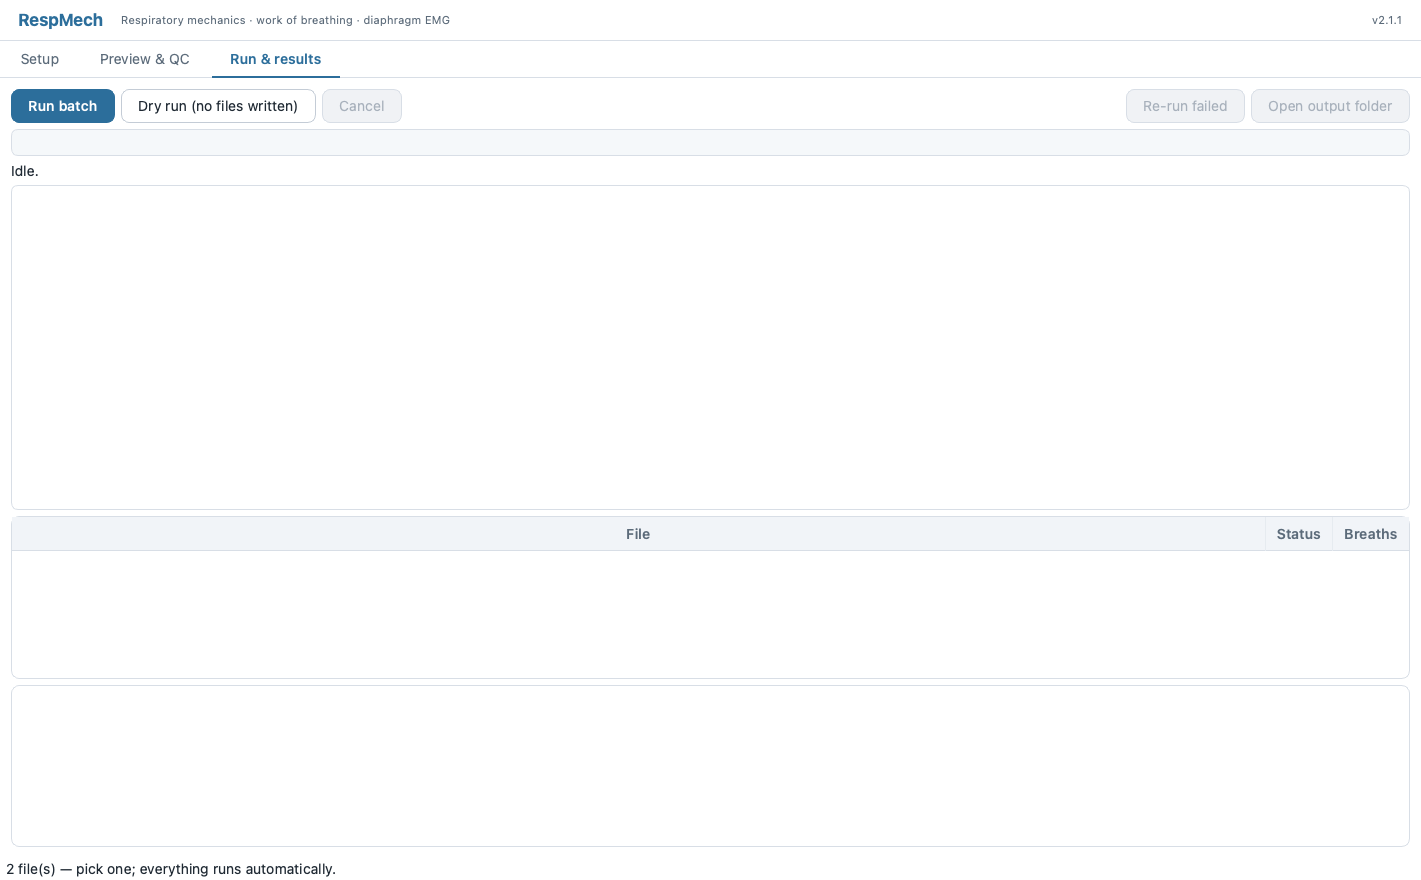
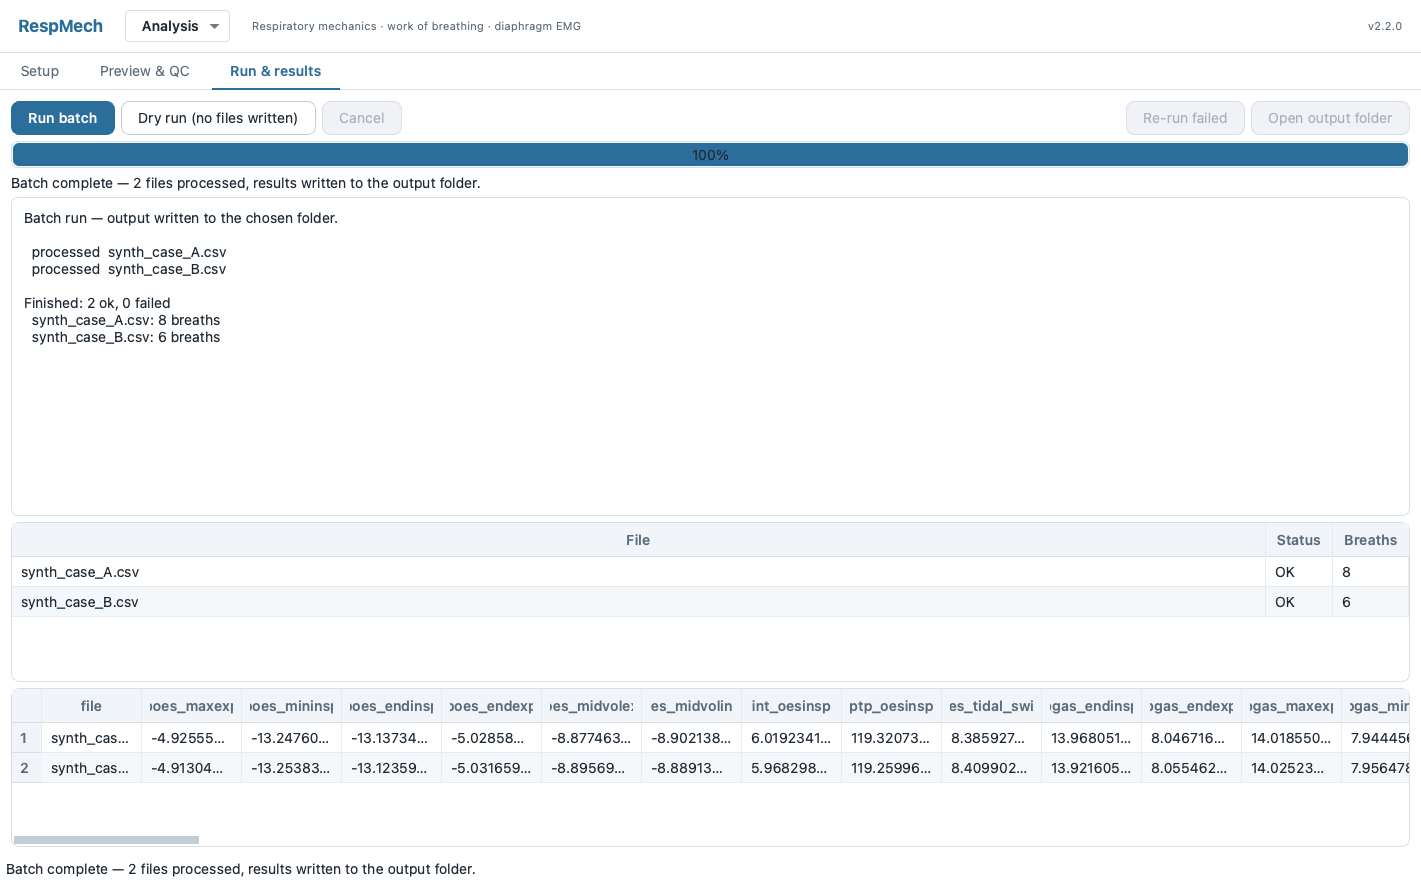
docs: refresh README screenshots + text for the 2.2 UI
Regenerate the three screenshots against the current UI (same synthetic demo
data, so the only change is the interface): the header now carries the Analysis
menu (Open/Save/Save as/recent files) in place of the old per-tab action bar and
Validate button; the Setup fields are capped to tidy columns; the Preview file
strip sizes to content; and the Preview/Run shots are now populated — the Campbell
loop + per-breath table on Preview, and the log, per-file status and averaged
metrics on Run.

Text: note the header Analysis menu (open/save/recent, on every screen, with an
unsaved-changes prompt), live-as-you-type validation, and the populated
Preview/Run screens; bump the example citation to v2.2.

diff --git a/README.md b/README.md
@@ -48,13 +48,16 @@ Three screens, in the order you work:
 
 | Screen | What you do |
 |---|---|
-| **Setup** | Point at your recordings, map the data columns to channels, choose what to save. Assign channels visually from the data if you prefer. |
-| **Preview & QC** | See the analysis on one file *before* running the batch: breath segmentation, Campbell loops, and dedicated tabs to tune **EMG – ECG reduction** and **EMG – noise reduction** against the live signal. Click a breath to exclude it. |
-| **Run & results** | Run the batch, watch progress per file, and open the output folder. |
+| **Setup** | Point at your recordings, map the data columns to channels, choose what to save. Assign channels visually from the data if you prefer. Settings validate as you type — the status bar flags anything inconsistent. |
+| **Preview & QC** | See the analysis on one file *before* running the batch: breath segmentation, the Campbell loop and the per-breath table, and dedicated tabs to tune **EMG – ECG reduction** and **EMG – noise reduction** against the live signal. Click a breath to exclude it. |
+| **Run & results** | Run the batch, watch progress per file, review the per-file status and averaged metrics, and open the output folder. |
 
 ![RespMech — Preview & QC](docs/img/preview-mechanics.png)
 
 Settings are stored as a declarative **TOML** *analysis* file (no longer an executable `.py`).
+Open, save and switch between analyses — including your recently opened files — from the
+**Analysis** menu in the header, which is available on every screen; RespMech marks unsaved
+edits in the title bar and asks before discarding them.
 
 ## Command line
 
@@ -174,4 +177,4 @@ or cite a specific version using that version's DOI (click the badge for the lis
 
 An example citation:
 
-_[...] were calculated using the Python package RespMech (ES Walsted, RespMech v2.1, 2026, https://github.com/emilwalsted/respmech/, DOI: 10.5281/zenodo.3270826) [...]_
+_[...] were calculated using the Python package RespMech (ES Walsted, RespMech v2.2, 2026, https://github.com/emilwalsted/respmech/, DOI: 10.5281/zenodo.3270826) [...]_
